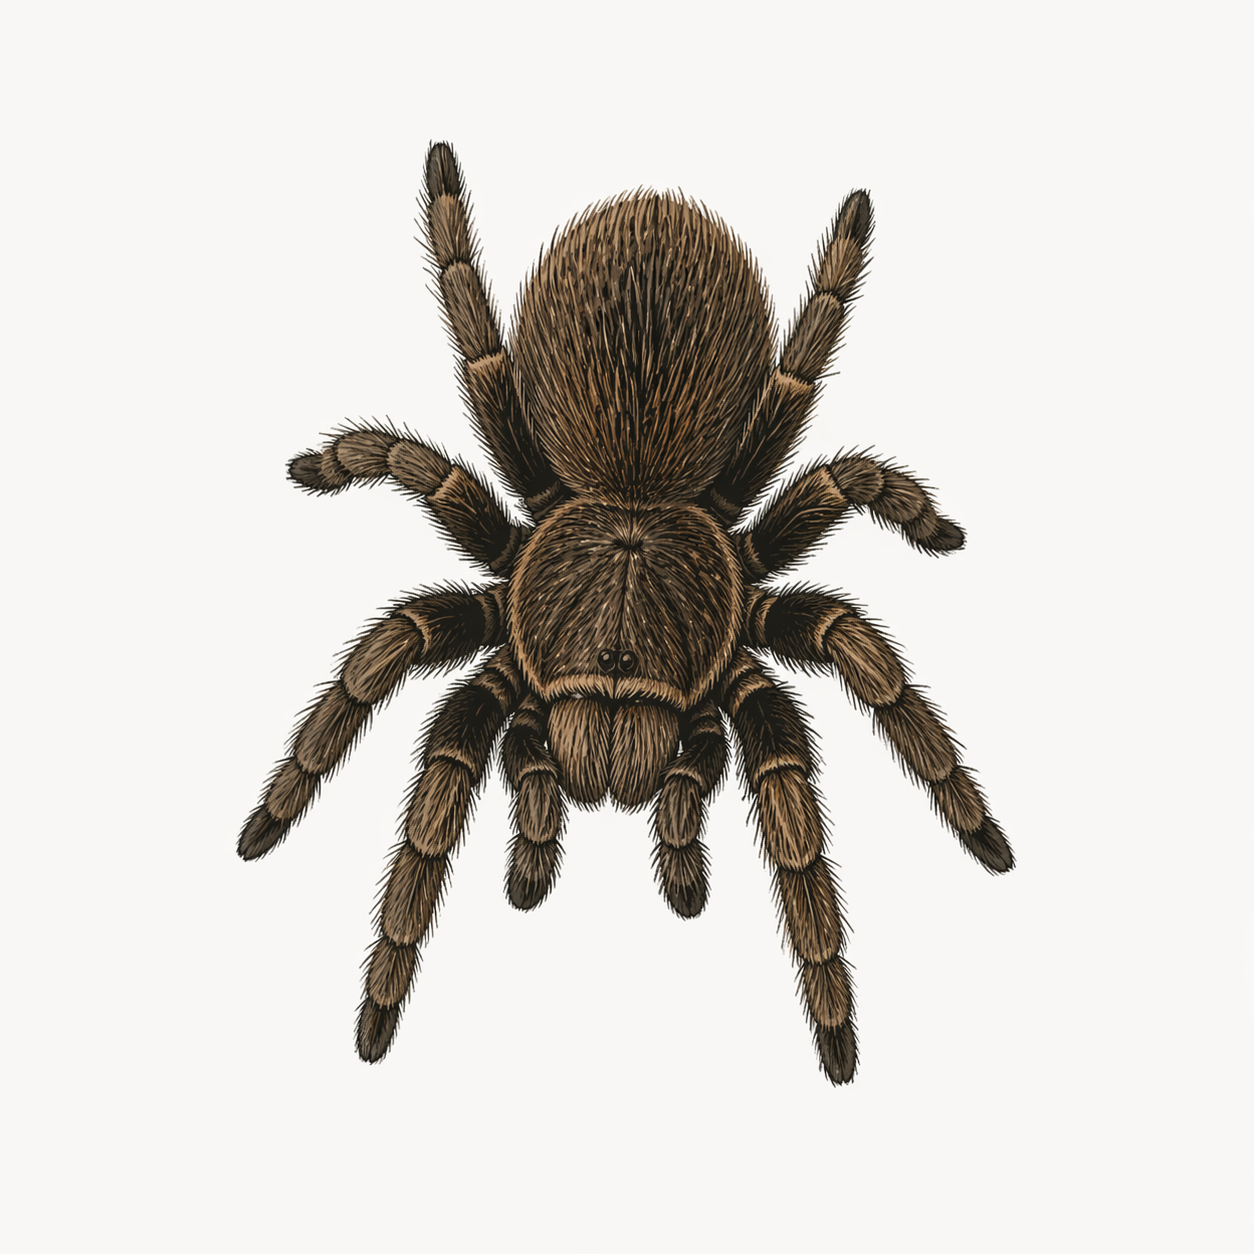
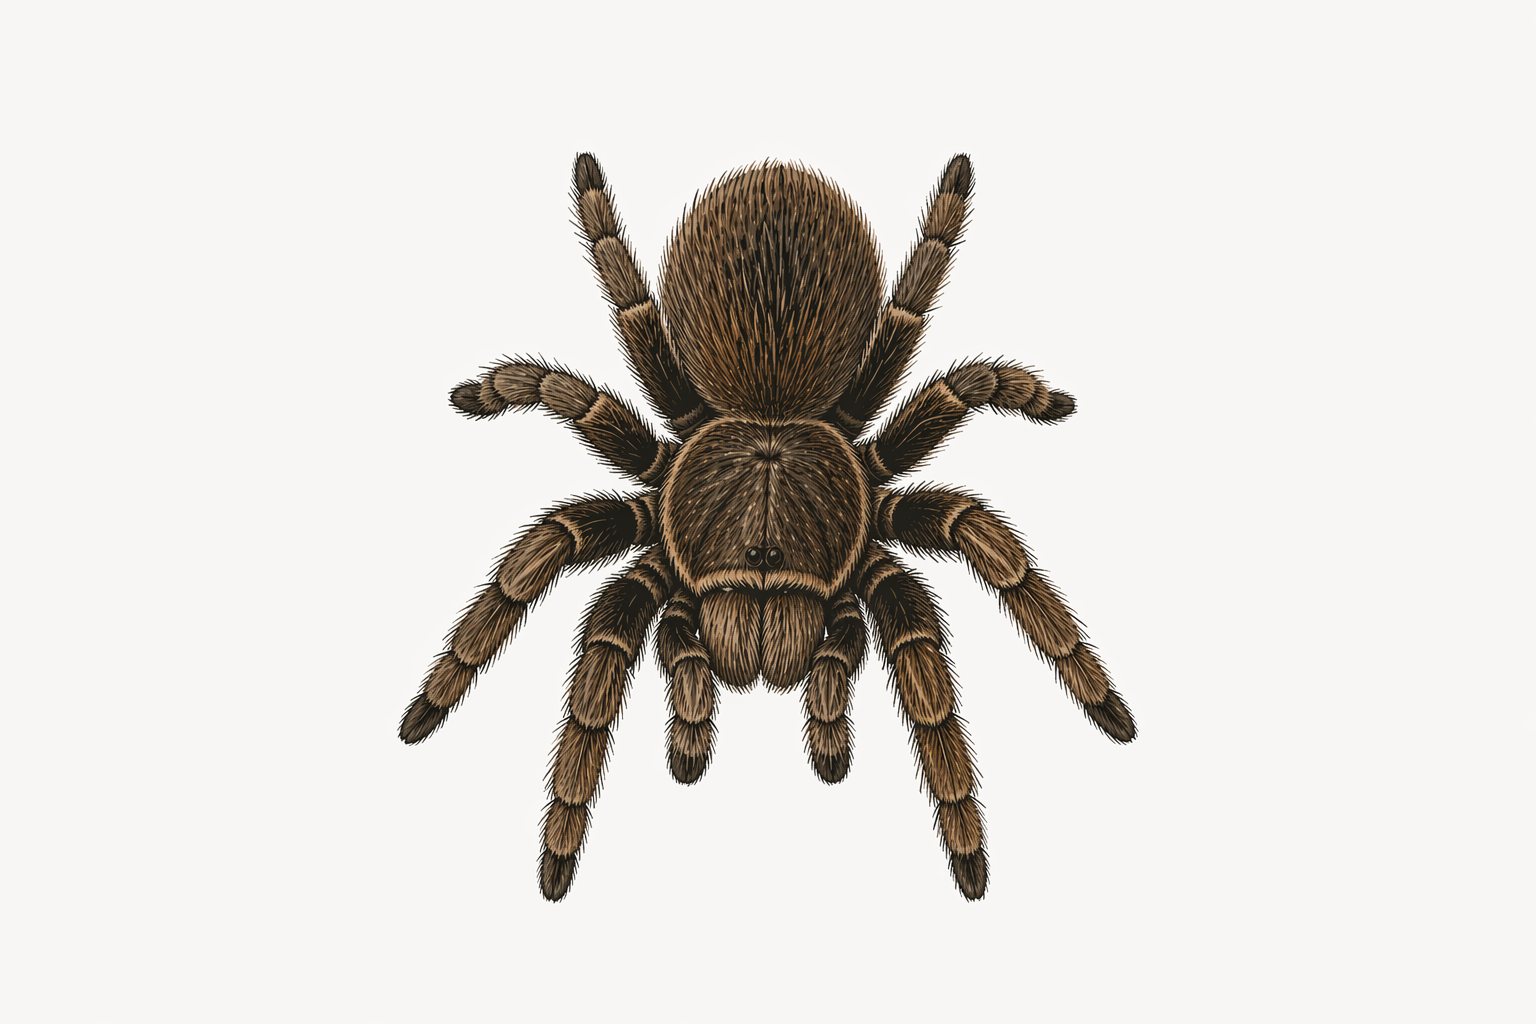
adiciona imagem nas perguntas das aranhas

Changed region(s): [[0.1866, 0.0938, 0.8086, 0.875]]

diff --git a/aranhas/pergunta5.html b/aranhas/pergunta5.html
@@ -11,14 +11,16 @@
 
   <header>
     <h1>Chave dicotômica interativa – Aranhas</h1>
-    <p>Leia atentamente a pergunta e observe as características descritas para responder.</p>
+    <p>Observe atentamente a imagem e as características descritas para responder à pergunta..</p>
   </header>
 
   <main>
 
     <section class="pergunta">
+       <div class="imagem-container">
+       <img src="imagens/img-pergunta5.png" class="imagem-chave">
+      </div>
       <h2>Pergunta 5</h2>
-      <img src="imagens/exemplo.jpg" class="imagem-pergunta5">
       <p>
         A aranha é pequena, de coloração marrom e possui pernas finas e alongadas?
       </p>

diff --git a/aranhas/pergunta4.html b/aranhas/pergunta4.html
@@ -11,14 +11,16 @@
 
   <header>
     <h1>Chave dicotômica interativa – Aranhas</h1>
-    <p>Leia atentamente a pergunta e observe as características descritas para responder.</p>
+    <p>Observe atentamente a imagem e as características descritas para responder à pergunta..</p>
   </header>
 
   <main>
 
     <section class="pergunta">
+      <div class="imagem-container">
+       <img src="imagens/img-pergunta4.png" class="imagem-chave">
+      </div>
       <h2>Pergunta 4</h2>
-      <img src="imagens/exemplo.jpg" class="imagem-pergunta4">
       <p>
         A aranha apresenta corpo grande, pernas longas e comportamento agressivo?
       </p>

diff --git a/aranhas/pergunta2.html b/aranhas/pergunta2.html
@@ -11,14 +11,17 @@
 
   <header>
     <h1>Chave dicotômica interativa – Aranhas</h1>
-    <p>Leia atentamente a pergunta e observe as características descritas para responder.</p>
+    <p>Observe atentamente a imagem e as características descritas para responder à pergunta..</p>
   </header>
 
   <main>
 
     <section class="pergunta">
+      <div class="imagem-container">
+       <img src="imagens/img-pergunta2.png" class="imagem-chave">
+      </div>
       <h2>Pergunta 2</h2>
-      <img src="imagens/exemplo.jpg" class="imagem-pergunta2">
+  
       <p>
         As pernas são grossas e o corpo apresenta muitos pelos visíveis?
       </p>

diff --git a/aranhas/pergunta3.html b/aranhas/pergunta3.html
@@ -11,14 +11,16 @@
 
   <header>
     <h1>Chave dicotômica interativa – Aranhas</h1>
-    <p>Leia atentamente a pergunta e observe as características descritas para responder.</p>
+    <p>Observe atentamente a imagem e as características descritas para responder à pergunta..</p>
   </header>
 
   <main>
 
     <section class="pergunta">
+      <div class="imagem-container">
+       <img src="imagens/img-pergunta3.png" class="imagem-chave">
+      </div>
       <h2>Pergunta 3</h2>
-      <img src="imagens/exemplo.jpg" class="imagem-pergunta3">
       <p>
         A aranha costuma erguer as patas dianteiras em posição de defesa?
       </p>

diff --git a/css/estilo.css b/css/estilo.css
@@ -57,10 +57,9 @@ main {
 /* IMAGENS */
 .imagem-chave {
   width: 100%;
-  max-width: 450px;
+  height: auto;
   display: block;
-  margin: 0 auto 5px auto;
-  border-radius: 10px;
+  border-radius: 12px;
 }
 .imagem-pergunta {
   width: 100%;
@@ -73,6 +72,9 @@ main {
 .imagem-container {
   max-width: 450px;
   margin: 0 auto 20px auto;
+  background-color: #f1f3f2; /* leve cinza esverdeado */
+  padding: 15px;
+  border-radius: 16px;
 }
 
 .nome-cientifico {

diff --git a/aranhas/pergunta1.html b/aranhas/pergunta1.html
@@ -12,7 +12,7 @@
 
   <header>
     <h1>Chave dicotômica interativa – Aranhas</h1>
-    <p>Leia atentamente a pergunta e observe as características descritas para responder.</p>
+    <p>Observe atentamente a imagem e as características descritas para responder à pergunta..</p>
   </header>
 
   <main>
